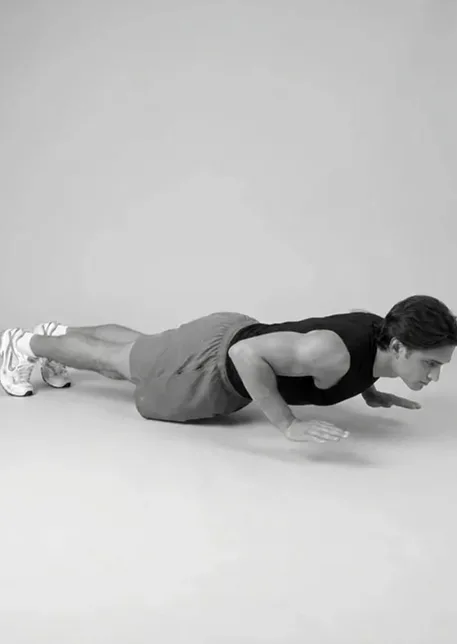
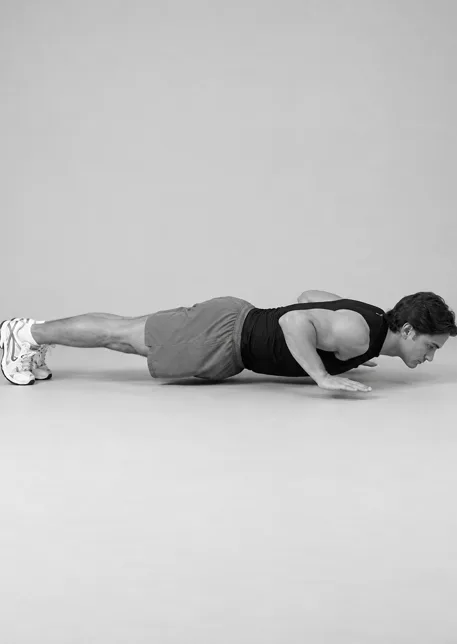
Push-Up-Endbild mit GPT Image 2: Brust am Boden, Hände gelöst (Goliaz-Standard)
Nano Banana Pro schaffte die Pose nicht; GPT Image 2 mit Posenfoto im ersten Versuch. Job-Dateien für beide Modelle, Fehlversuche lokal ausgeschlossen.

Changed region(s): [[0.0, 0.4348, 1.0, 0.7453]]

diff --git a/docs/Uebergabe.md b/docs/Uebergabe.md
@@ -83,7 +83,7 @@ Der User will für die Übungen ohne Herstellerfoto KI-generierte Bilder im Stil
 
 **MCP-Server und API:** Der Server `kie-ai` war freigegeben, aber `prepare_media_generation` verlangt eine Freigabe über einen Host-Dialog, den Claude Code nicht bietet (`submit_media_generation` meldet „Plan is not approved“). Deshalb eigenes Skript `app/scripts/kie-gen.mjs`: liest den Key wie `kie-mcp.mjs`, ruft `POST https://api.kie.ai/api/v1/jobs/createTask` auf, pollt `GET /jobs/recordInfo?taskId=`, lädt das Ergebnis und wandelt es mit ffmpeg (im PATH) in WebP 457 × 644 um. Aufruf im Ordner `app`: `node scripts/kie-gen.mjs --job scripts/kie-jobs/<name>.json`. Job-Dateien liegen in `app/scripts/kie-jobs/` (Modell, Zielpfad, Prompt, Referenzen). Modell-ID bei Kie.ai ist `nano-banana-pro` (nicht `google/nano-banana-pro`); Parameter `prompt`, `image_input` (URLs), `aspect_ratio: '3:4'`, `resolution: '1K'`, `output_format: 'png'`. Kosten: 18 Credits je Bild (Guthaben 1056 → 984 nach vier Bildern). Der MCP-Server bleibt nützlich für `upload_file` (Base64 → temporäre URL, 1–3 Tage), `list_models` und Statusabfragen.
 
-**Pilotbilder (fertig, in `app/public/img/gen/`):** `pushup_start`, `pushup_end`, `elbow_plank_start`. Referenzen waren die Herstellerfotos Nr. 2, 108 und 34 (öffentliche URLs auf GitHub Pages); der Stil (gleicher Mann, schwarzes Shirt, graue Shorts, hellgrauer Studiohintergrund, Schwarzweiß) wurde gut getroffen. Erster Versuch des Endbilds war spiegelverkehrt zum Startbild und hatte einen schwarzen Rahmenrest; zweiter Versuch mit dem Startbild als erster Referenz (hochgeladen per MCP `upload_file`) und der Vorgabe „athlete facing to the RIGHT, no black border“ passt. **Lehre:** Endbild immer mit dem Startbild als erster Referenz erzeugen. Beim Plank sind die Hände gefaltet (Prompt sagte „not clasped“), toleriert. Der User fand die Bilder „sehr, sehr gut“ und wünschte beim Push-Up-Endbild den Goliaz-Standard (Hände lösen sich vom Boden, nur die Brust liegt auf): dritter Durchgang mit dem zweiten Endbild als erster Referenz und der Vorgabe „hand-release push-up, both hands lifted clearly off the floor“ hat das umgesetzt und ist jetzt live. Rohbilder (PNG, 1–2 MB) sind per `.gitignore` ausgeschlossen, ins Repo kommen nur die WebP-Dateien (7–10 kB).
+**Pilotbilder (fertig, in `app/public/img/gen/`):** `pushup_start`, `pushup_end`, `elbow_plank_start`. Referenzen waren die Herstellerfotos Nr. 2, 108 und 34 (öffentliche URLs auf GitHub Pages); der Stil (gleicher Mann, schwarzes Shirt, graue Shorts, hellgrauer Studiohintergrund, Schwarzweiß) wurde gut getroffen. Erster Versuch des Endbilds war spiegelverkehrt zum Startbild und hatte einen schwarzen Rahmenrest; zweiter Versuch mit dem Startbild als erster Referenz (hochgeladen per MCP `upload_file`) und der Vorgabe „athlete facing to the RIGHT, no black border“ passt. **Lehre:** Endbild immer mit dem Startbild als erster Referenz erzeugen. Beim Plank sind die Hände gefaltet (Prompt sagte „not clasped“), toleriert. Der User fand die Bilder „sehr, sehr gut“ und wünschte beim Push-Up-Endbild den Goliaz-Standard: nur die Brust berührt den Boden, Hüfte und Beine bleiben in der Luft (Körper gerade), beide Hände sind abgehoben, Ellbogen etwa 90° nach oben-hinten. **Nano Banana Pro hat das in 8 Durchgängen nicht geschafft** (Brust und Hände schwebten immer gemeinsam, auch beim Nachbearbeiten eines fast richtigen Bildes und mit dem Goliaz-App-Foto als Posenreferenz). **GPT Image 2** (`gpt-image-2-image-to-image`, Feld `input_urls`, Goliaz-Foto als erste Referenz, eigenes Startbild und Nr. 2 als Stil-/Personenreferenz) hat es im ersten Versuch richtig, ebenso `gpt-image-2-5-sunburst-image-to-image`; GPT Image 2 ist live. Fehlversuche liegen lokal in `app/public/img/gen/_versuche/` (per `.gitignore` ausgeschlossen). **Lehre:** Bei Posen, die vom Üblichen abweichen (Hand-Release, Defizit, Tempo-Positionen), gleich GPT Image 2 mit einem Posenfoto nehmen; Nano Banana Pro für Standardposen und für den Stil. Kosten: GPT Image 2 ca. 18 Credits je Bild wie Nano Banana Pro; Guthaben nach dem Abend 864. Rohbilder (PNG, 1–2 MB) sind per `.gitignore` ausgeschlossen, ins Repo kommen nur die WebP-Dateien (7–10 kB).
 
 **App-Anbindung:** neues Feld `genImage` in `Exercise` (Basisname der Datei; mit `noEndPhoto: true` nur ein Bild, Beschriftung „Haltung“). `exerciseImages()` liefert dann `img/gen/{genImage}_{start|end}.webp`, `ExerciseDescription` zeigt „Bild KI-generiert (Nano Banana Pro) im Stil der Bio Force Anleitung“. Push-Ups (`pushup`) und Elbow Plank (`plank`) sind verknüpft; im Dev-Browser geprüft. **Rückmeldung des Users vom Handy steht aus.**
 
